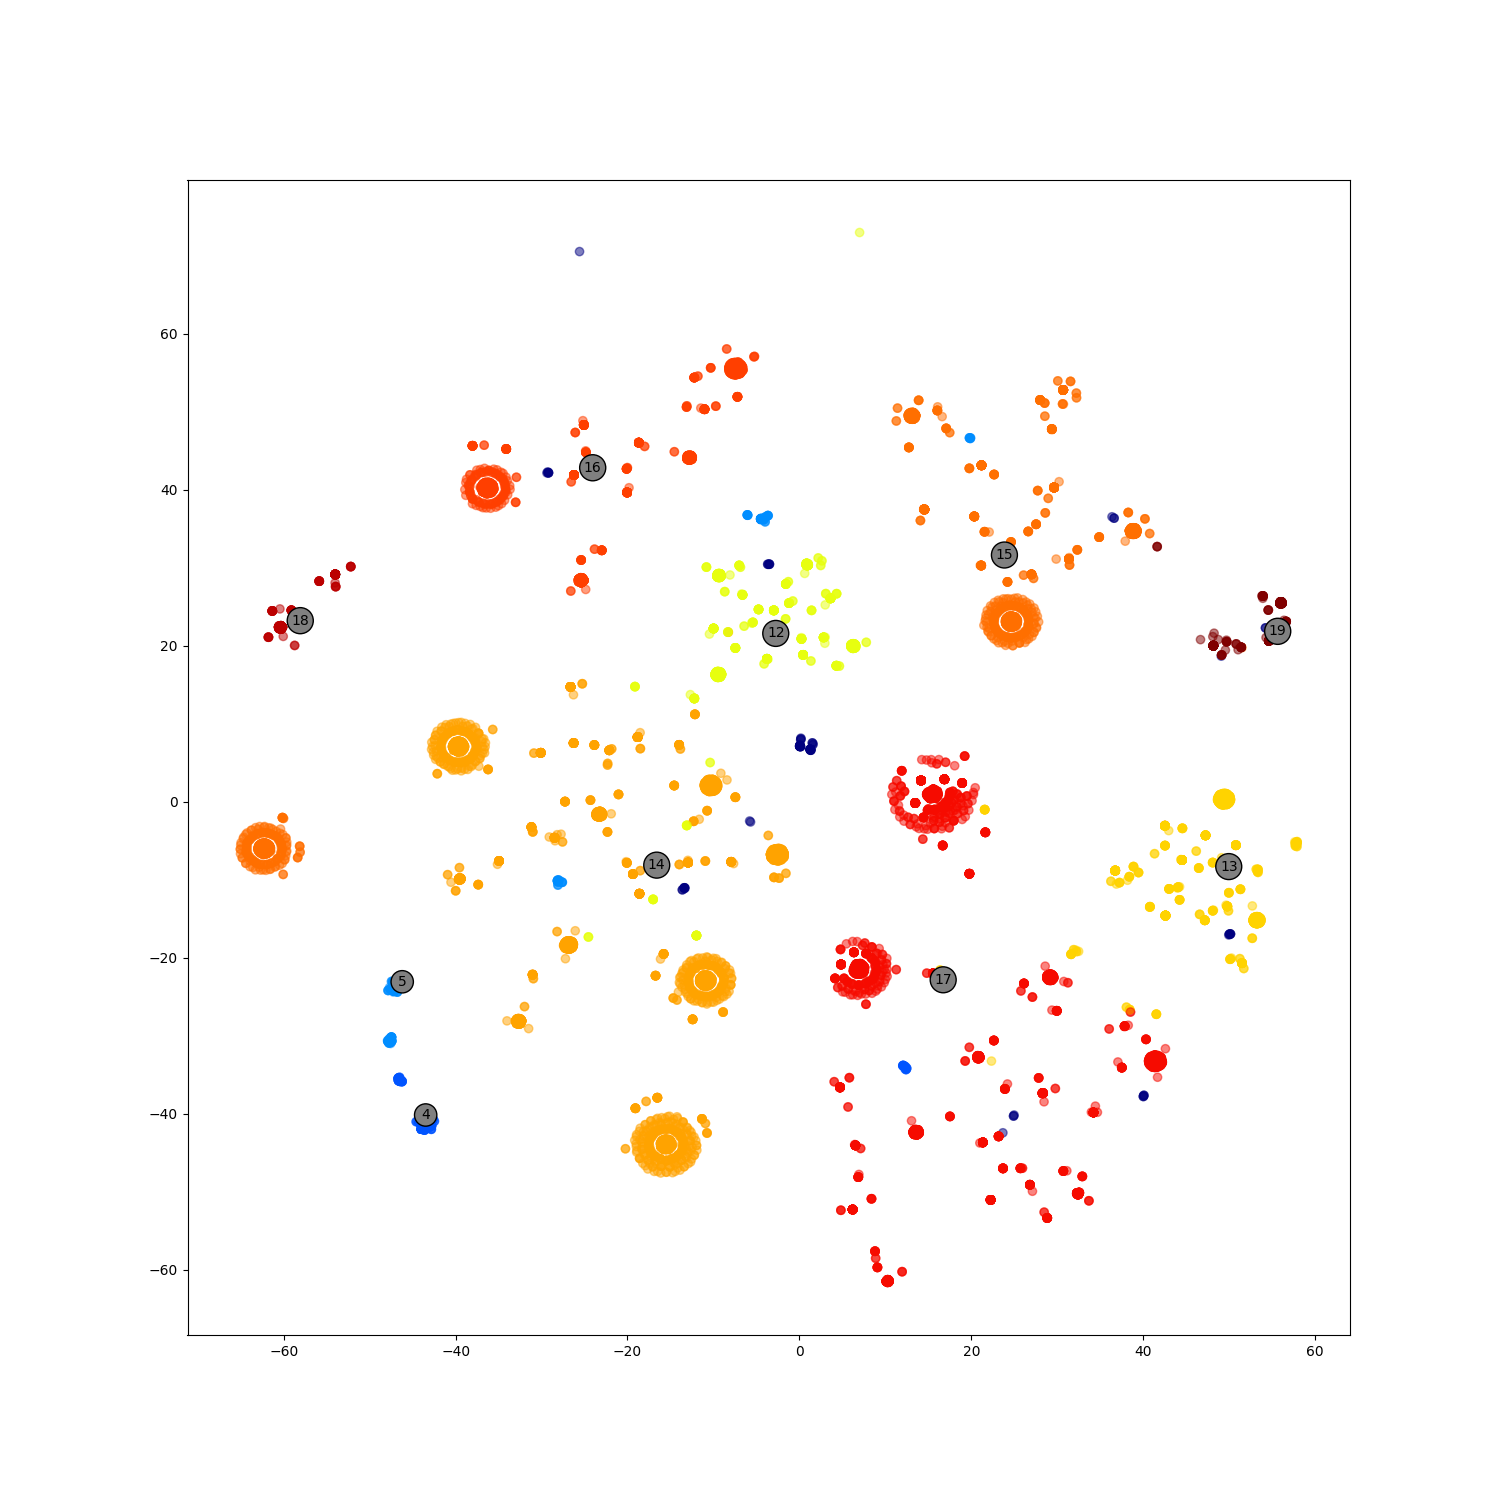
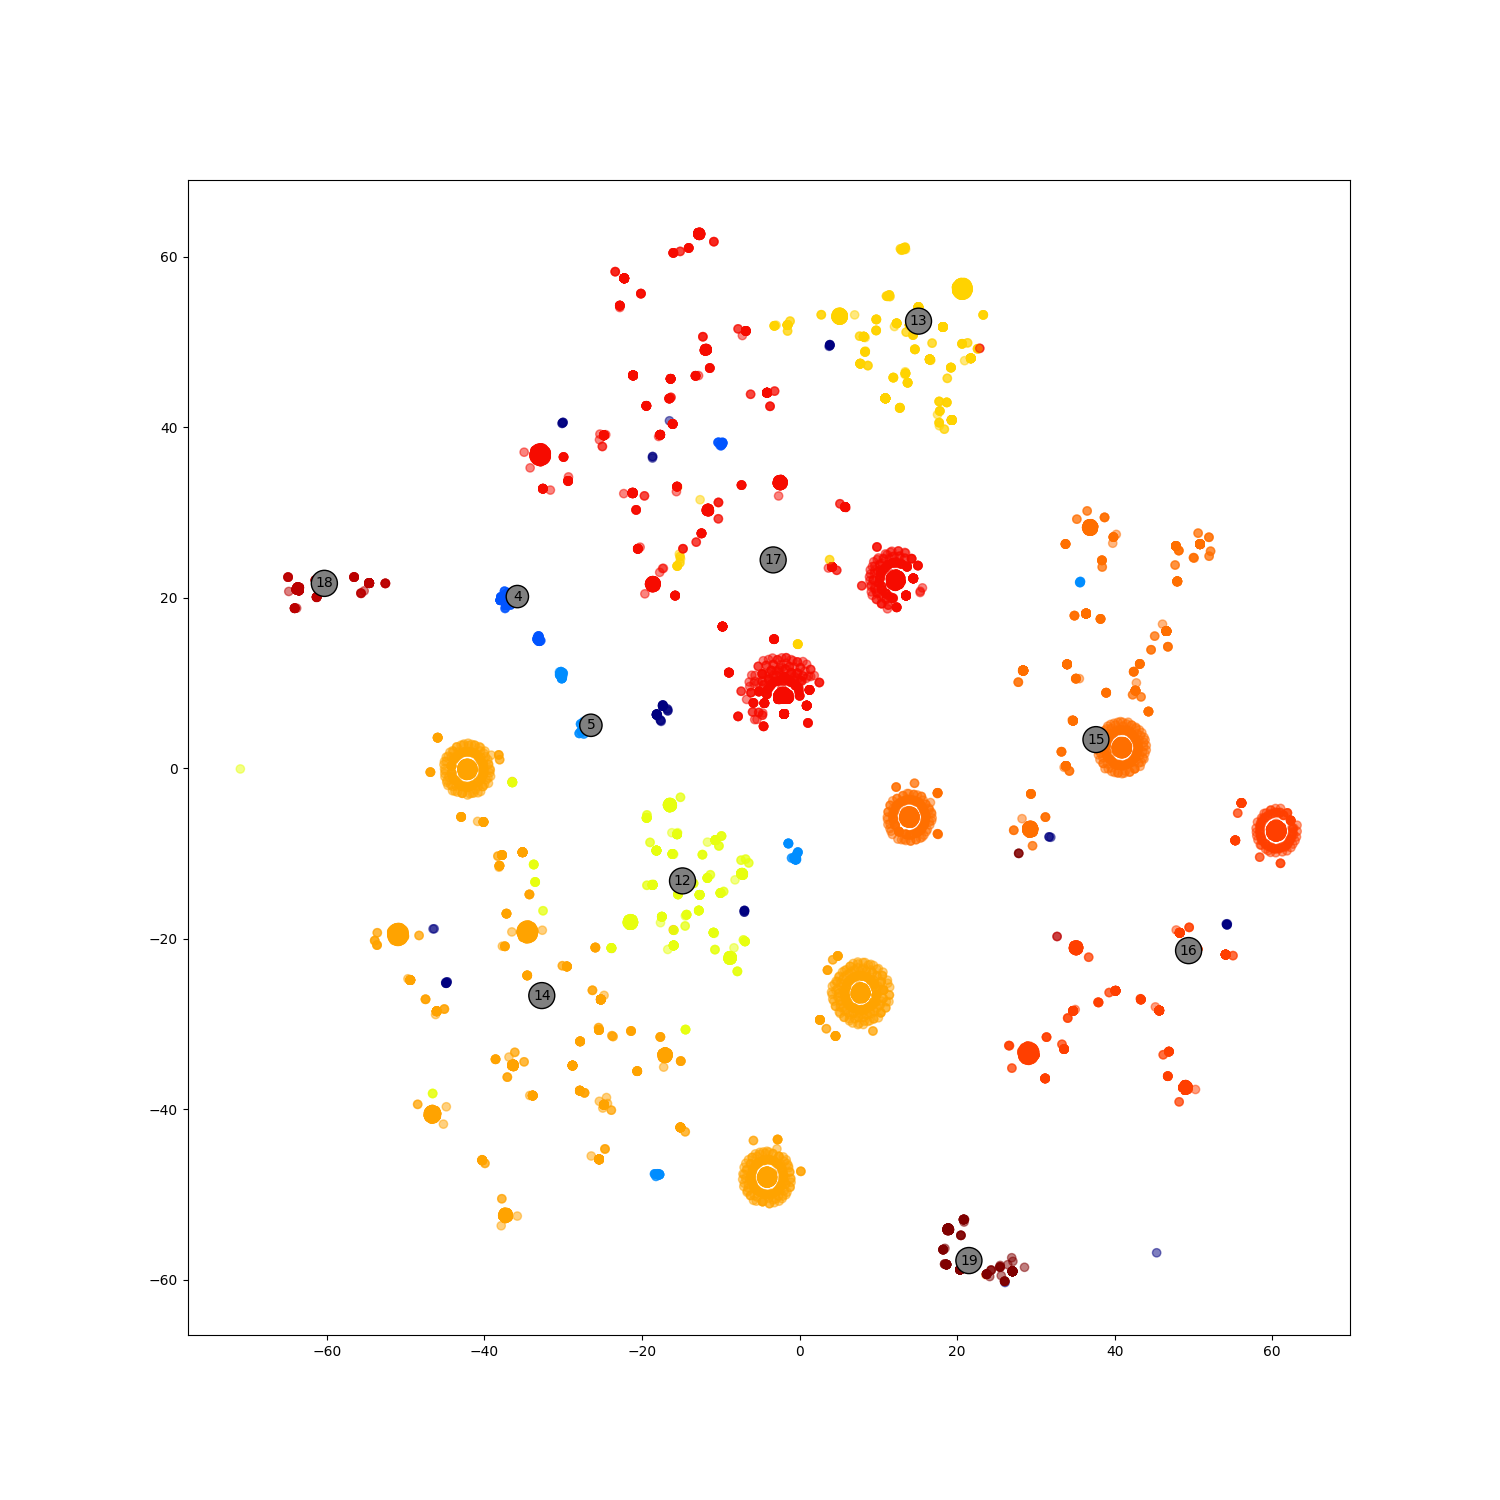
salvando

diff --git a/signalAnalysis/report.py b/signalAnalysis/report.py
@@ -135,44 +135,40 @@ def report():
         plt.close()
 
 
-os.makedirs("./old/means", exist_ok=True)
-results = pd.read_csv("./old/results_old/results_new_FOSC_96.csv", index_col=0)
-lastObjects = pd.read_csv("./old/results_old/lastObjects_FOSC_96.csv", index_col=0)
-dataset = Dataset()
-dataset.dataset('./old/signals_old')
-original_data = pd.DataFrame(dataset.data.squeeze())
-labels = results["0"].values
-prediction = np.load("./old/results_old/prediction.npy")
+# os.makedirs("./old/means", exist_ok=True)
+# results = pd.read_csv("./old/results_old/results_new_FOSC_96.csv", index_col=0)
+# lastObjects = pd.read_csv("./old/results_old/lastObjects_FOSC_96.csv", index_col=0)
+# dataset = Dataset()
+# dataset.dataset('./old/signals_old')
+# original_data = pd.DataFrame(dataset.data.squeeze())
+# labels = results["0"].values
+# prediction = np.load("./old/results_old/prediction.npy")
 
-print(evaluate(prediction, labels))
+# print(evaluate(prediction, labels))
 
-i = 0
-fig, ax = plt.subplots(5, 3, figsize=(15, 20), sharex=True, sharey=True)
-ax_list = ax.reshape(-1)
-plt.locator_params(nbins=10)
-for cluster in lastObjects.index:
-    data = original_data.iloc[lastObjects.loc[cluster][0]]
-    data = data.reset_index(drop=True).values
-    ax_list[i].plot(data)
-    ax_list[i].set(title=f'Cluster_{i}_example')
-    i += 1
-plt.savefig(f'./old/means/FOSC_96_avarage_last_objects.jpg', dpi=100)
-plt.close()
-
-tsne_results = TSNE(n_components=2, learning_rate='auto', init='random', perplexity=50)
-tsne_2d = tsne_results.fit_transform(prediction)
-tsne_2d = pd.DataFrame({'x': tsne_2d[:, 0], 'y': tsne_2d[:, 1]})
-tsne_2d['label'] = labels
-fig, ax = plt.subplots(figsize=(15, 15))
-scatter = ax.scatter(data=tsne_2d, x='x', y='y', c='label', cmap='jet', alpha=0.5)
-for label in set(tsne_2d['label'].values):
-    if label != 0:
-        x = tsne_2d.where(tsne_2d['label'] == label).dropna()['x'].median()
-        y = tsne_2d.where(tsne_2d['label'] == label).dropna()['y'].median()
-        center = (x, y)
-        ax.annotate(str(label), xy=center, size=10, bbox=dict(boxstyle="circle", facecolor='grey'))
-plt.savefig(f'./old/means/FOSC_96_avarage_TSNE2D', dpi=100)
-plt.close(fig)
+# for cluster in lastObjects.index:
+#     fig, ax = plt.subplots(figsize=(15, 20))
+#     data = original_data.iloc[lastObjects.loc[cluster][0]]
+#     data = data.reset_index(drop=True).values
+#     ax.plot(data)
+#     ax.set(title=f'Cluster_{cluster}_example')
+#     plt.savefig(f'./old/means/FOSC_96_avarage_last_object_{cluster}.jpg', dpi=200)
+#     plt.close()
+#
+# tsne_results = TSNE(n_components=2, learning_rate='auto', init='random', perplexity=50)
+# tsne_2d = tsne_results.fit_transform(prediction)
+# tsne_2d = pd.DataFrame({'x': tsne_2d[:, 0], 'y': tsne_2d[:, 1]})
+# tsne_2d['label'] = labels
+# fig, ax = plt.subplots(figsize=(15, 15))
+# scatter = ax.scatter(data=tsne_2d, x='x', y='y', c='label', cmap='jet', alpha=0.5)
+# for label in set(tsne_2d['label'].values):
+#     if label != 0:
+#         x = tsne_2d.where(tsne_2d['label'] == label).dropna()['x'].median()
+#         y = tsne_2d.where(tsne_2d['label'] == label).dropna()['y'].median()
+#         center = (x, y)
+#         ax.annotate(str(label), xy=center, size=10, bbox=dict(boxstyle="circle", facecolor='grey'))
+# plt.savefig(f'./old/means/FOSC_96_avarage_TSNE2D', dpi=100)
+# plt.close(fig)
 
 # i = 0
 # fig, ax = plt.subplots(5, 3, figsize=(15, 20), sharex=True, sharey=True)
